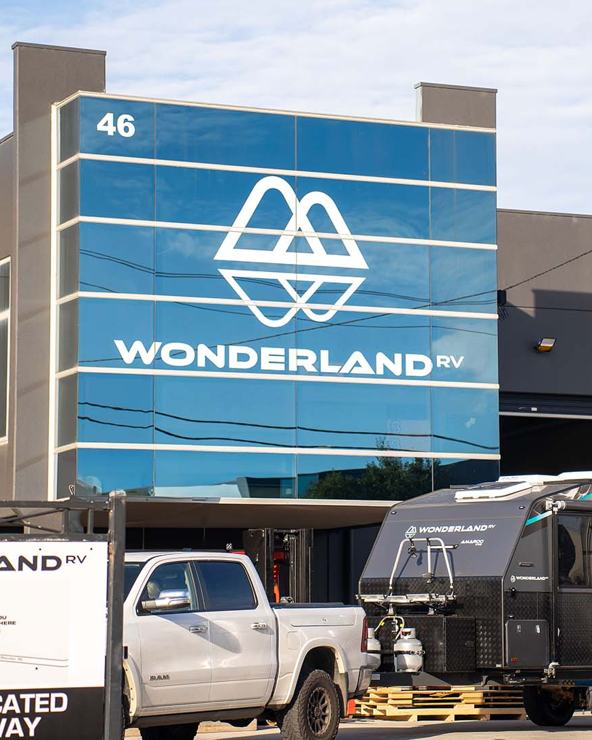
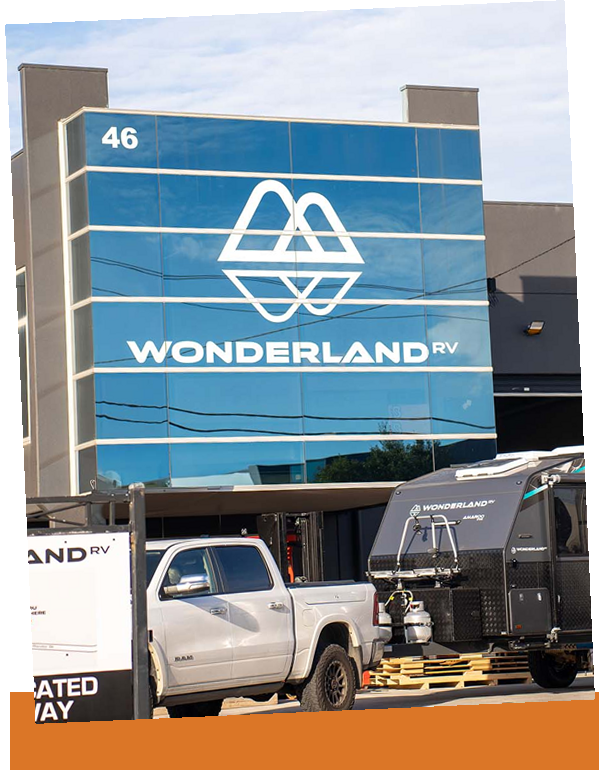
Newsletter-accurate tilted photo treatment for factory tour

diff --git a/assets/photo-treatment.md b/assets/photo-treatment.md
@@ -1,0 +1,7 @@
+# Tilted Frame — the Wonderland RV EDM photo treatment
+Photographs in Wonderland RV emails never sit flat. The print is laid down by hand,
+a few degrees off square, over a straight slab of house orange (#DB7627) that shows
+along the bottom edge. The slab is level; the photo leans. Square corners, no shadows,
+no borders. The effect reads as a photo placed on the workbench of the factory it shows:
+precise, physical, unmistakably Wonderland RV. Replicated from the September 2026
+newsletter's community photo (AC asset 9af05cdd).
